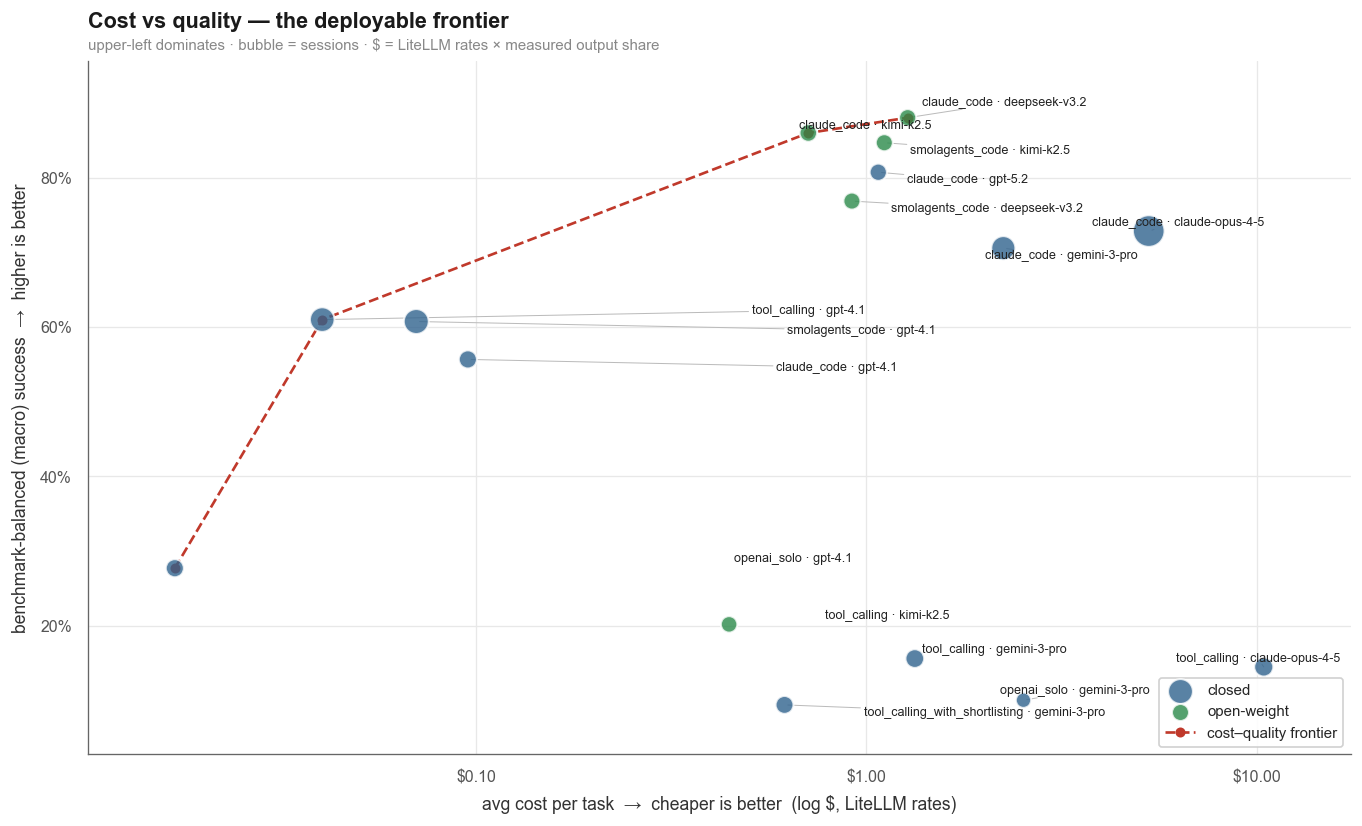
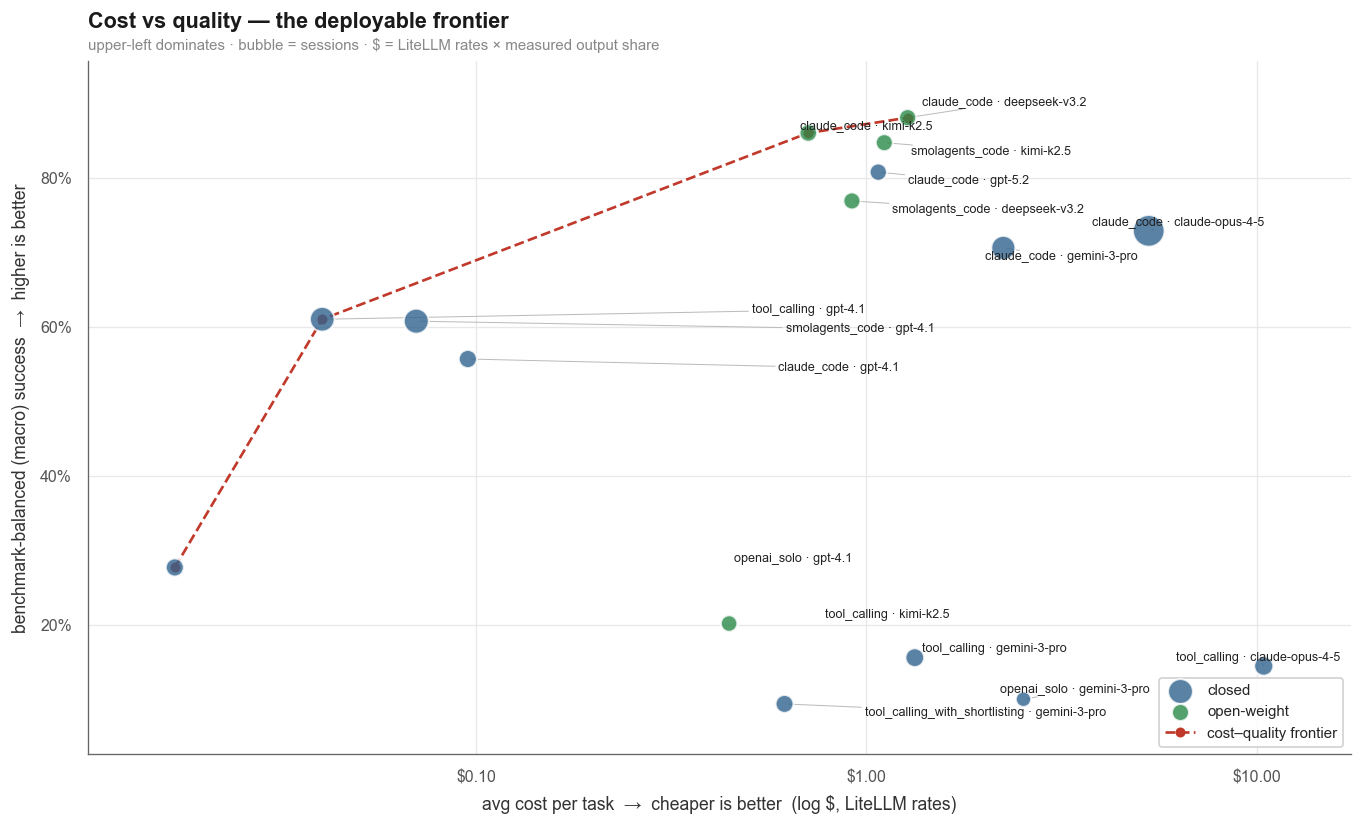
updating cost figures

diff --git a/scripts/build_notebook.py b/scripts/build_notebook.py
@@ -1339,6 +1339,23 @@ df.groupby("model").agg(n=("success", "size"), mean_tok=("total_tokens", "mean")
                         mean_usd=("cost_usd", "mean"), succ=("success", "mean")).round(2)
 ''')
 
+md(r"""### Two cost metrics — read this first
+
+The plots below use two different cost numbers. They are **not** the same, and the gap between
+them is the whole point.
+
+| Metric | Definition | What it answers |
+|---|---|---|
+| **Cost per task** | total \$ spent ÷ **all** runs (wins *and* losses) = mean \$/run | "What does one attempt cost on average?" |
+| **Cost per success** | total \$ spent ÷ **successful** runs = (cost per task) ÷ (success rate) | "What do I pay to get one task actually *done* — including paying for the failed attempts?" |
+
+So `cost per success = cost per task ÷ success rate`. A config that succeeds 1-in-6 pays for
+~6 attempts per win, so its cost-per-success is ~6× its cost-per-task; a 90%-success config
+barely differs between the two. **Neither is per-benchmark** — both pool over every task a
+config ran (one number per config). That's fine within a config but mixes suites across
+configs, so the headline cost-per-success (4b) inherits the benchmark-mix confound; **4d**
+fixes that by recomputing it *within each benchmark*.""")
+
 md(r"""### 4a · The cost–quality frontier (their plot, with the Pareto set marked)
 
 This is the Open Agent Leaderboard's headline view — every config placed by **quality**
@@ -1463,6 +1480,60 @@ sns.despine(ax=ax)
 plt.tight_layout(); plt.show()
 ''')
 
+md(r"""### 4d · Cost per success, **within each benchmark** (apples-to-apples)
+
+4b's cost-per-success pools over whatever suites a config ran, so a config that mostly ran the
+cheap `tau2` tasks looks cheaper than one that ran token-heavy `swebench` — independent of the
+harness. This holds the **benchmark fixed**: each panel is one suite, and within it every
+config faces the same task type, so `total $ ÷ successes` is now a clean comparison. We split
+the suites into the **coding / agentic** family (swebench, appworld, browse — high token
+volume) and the **conversational τ²** family (airline, retail, telecom), since they live on
+very different cost scales. This is the honest test of "does open *actually* cost less per
+solved task," and of which harness wins once you're paying per outcome on a given workload.""")
+
+code(r'''CODING = ["swebench", "appworld", "browsecompplus"]
+CONV   = ["tau2_airline", "tau2_retail", "tau2_telecom"]
+rows = []
+for (b, c), sub in df.groupby(["benchmark", "config"]):
+    n, ns = len(sub), int(sub.success.sum())
+    if n >= 10 and ns > 0:                       # enough runs on this suite, and ≥1 success
+        rows.append({"benchmark": b, "config": c, "succ": sub.success.mean(),
+                     "usd_success": sub.cost_usd.sum() / ns})
+cb = pd.DataFrame(rows)
+cmap = plt.cm.RdYlGn
+
+def cps_figure(group, title, sub_caption):
+    benches = [b for b in group if b in set(cb.benchmark)]
+    counts = [max((cb.benchmark == b).sum(), 2) for b in benches]   # rows ∝ #configs
+    fig, axes = plt.subplots(len(benches), 1, squeeze=False,
+                             figsize=(13, 0.42 * sum(counts) + 1.0 * len(benches) + 0.6),
+                             gridspec_kw={"height_ratios": counts})
+    axes = axes[:, 0]
+    for ax, b in zip(axes, benches):
+        s = cb[cb.benchmark == b].sort_values("usd_success").reset_index(drop=True)
+        ax.barh(range(len(s)), s.usd_success, color=[cmap(v) for v in s.succ],
+                height=0.72, zorder=3, edgecolor="white")
+        ax.set_yticks(range(len(s))); ax.set_yticklabels(s.config, fontsize=8.5)
+        ax.set_xscale("log")
+        for y, (_, r) in enumerate(s.iterrows()):
+            ax.text(r.usd_success * 1.10, y, f"${r.usd_success:,.2f}  ·  {r.succ:.0%}",
+                    va="center", ha="left", fontsize=8, color="#333333")
+        ax.invert_yaxis()                              # cheapest-per-success on top
+        ax.set_xlim(right=s.usd_success.max() * 3.4)
+        ax.xaxis.set_major_formatter(mticker.FuncFormatter(
+            lambda v, _: f"${v:,.2f}" if v < 10 else f"${v:,.0f}"))
+        ax.set_title(b, loc="left", fontsize=11, fontweight="semibold")
+        sns.despine(ax=ax, left=True); ax.tick_params(left=False)
+    fig_title(fig, title, sub_caption)
+    plt.tight_layout(rect=[0, 0, 1, 0.97])
+
+SUB = ("suite held fixed · bar colour = success rate (red → green) · "
+       "$ = LiteLLM rates × measured output share · configs with ≥10 runs · cheapest on top")
+cps_figure(CODING, "Cost per successful task — coding / agentic suites", SUB)
+cps_figure(CONV, "Cost per successful task — conversational τ² suites", SUB)
+plt.show()
+''')
+
 md(r"""**Cost takeaways (building on the Open Agent Leaderboard).**
 
 - **Pick on cost *per success*, not cost per task.** The cheapest-per-task configs (minimal
@@ -1535,7 +1606,7 @@ PLOT_FILES = [
     "06_1e.png", "07_1f.png", "08_1g.png", "09_1h.png", "10_2a.png",
     "11_2a_2.png", "12_2b.png", "13_2b_2.png", "14_2c.png",
     "15_3a.png", "16_3b.png", "17_3c.png",
-    "18_4a.png", "19_4b.png", "20_4c.png",
+    "18_4a.png", "19_4b.png", "20_4c.png", "21_4d.png", "22_4e.png",
 ]
 
 

diff --git a/ANALYSIS-SUMMARY.md b/ANALYSIS-SUMMARY.md
@@ -806,6 +806,20 @@ output is only ~1–11% of billed tokens). **So the $ here aren't a guess** — 
 rates on exact token counts, accurate to a few percent. (Edit the `RATE`/`OUT_SHARE` tables
 for your own contract to get more org specific information.)
 
+**Two cost metrics — read this first.** The plots below use two different numbers, and the
+gap between them is the point:
+
+| Metric | Definition | Answers |
+|---|---|---|
+| **Cost per task** | total \$ ÷ **all** runs (wins *and* losses) = mean \$/run | "What does one attempt cost on average?" |
+| **Cost per success** | total \$ ÷ **successful** runs = (cost per task) ÷ (success rate) | "What do I pay to get one task actually *done*, including paying for the failed attempts?" |
+
+So `cost per success = cost per task ÷ success rate`. A config that succeeds 1-in-6 pays for
+~6 attempts per win (≈6× its per-task cost); a 90%-success config barely differs. **Neither is
+per-benchmark** — both pool over *every task a config ran* (one number per config), which mixes
+suites across configs. The pooled cost-per-success below is the quick view; the
+**per-benchmark** version (last plot) is the apples-to-apples one.
+
 **The deployable frontier (their plot, with the Pareto set drawn).** Every config placed by
 quality (benchmark-balanced macro success) against cost (avg $/task, log scale).
 ![Cost vs quality frontier: benchmark-balanced success vs average cost per task](out/plots/18_4a.png)
@@ -840,6 +854,35 @@ pattern). The yellow band is the leaderboard's pooled +20–54%. **Ops implicati
 "cap abnormally expensive runs" guardrail catches coding thrash but misses conversational
 give-up, where the *cheap, short* run is the failure — budget alarms need per-task-family
 thresholds.*
+
+**Cost per success, within each benchmark (apples-to-apples).** The cost-per-success plot
+above pools over whatever suites each config ran, so it inherits the benchmark mix. Holding
+the suite fixed is the honest test of "is open *really* cheaper per solved task." We split it
+by task family, since coding/agentic and conversational suites live on very different cost
+scales — and the answer flips between them.
+
+*Coding / agentic suites — open wins.* The open-cheaper result **survives** holding the suite
+fixed, so it isn't a coverage artifact.
+
+![Cost per successful task, coding/agentic suites (swebench, appworld, browse), faceted](out/plots/21_4d.png)
+
+*On **swebench**, `claude_code · kimi-k2.5` costs **$0.73/success** (94%) and `· deepseek-v3.2`
+**$1.27** (96%) vs closed `· claude-opus` **$4.28** (100%) and `· gemini-3-pro` **$4.97** (87%).
+On **appworld** the gap is 1–2 orders of magnitude: `smolagents_code · kimi-k2.5`
+**$0.40/success** (92%) vs `claude_code · claude-opus` **$84.33** (26%) and
+`tool_calling · claude-opus` **$75.35** (14%) — closed loses twice, pricier per token *and*
+failing more.*
+
+*Conversational τ² suites — cheap closed wins.* Here open-weight models never ran (only
+`gpt-4.1`, Claude, and Gemini did), and the story inverts:
+
+![Cost per successful task, conversational tau2 suites (airline, retail, telecom), faceted](out/plots/22_4e.png)
+
+*The cheap `gpt-4.1` configs dominate cost-per-success — on **tau2_retail**, `claude_code` /
+`tool_calling` / `smolagents_code · gpt-4.1` all hit **$0.02–0.03/success at 90%+**, versus
+`claude_code · claude-opus` **$1.95** (95%) and `· gemini-3-pro` **$0.75** (82%). So
+"pick the cheapest model that clears the bar" lands on a *different* model per task family:
+open-weight for coding, `gpt-4.1` for conversational support.*
 
 > **Cost bottom line:** choose configs on **cost per success**, not cost per task; at LiteLLM
 > rates open-weight models burn more tokens but cost ~8–9× less per token, so they **beat**